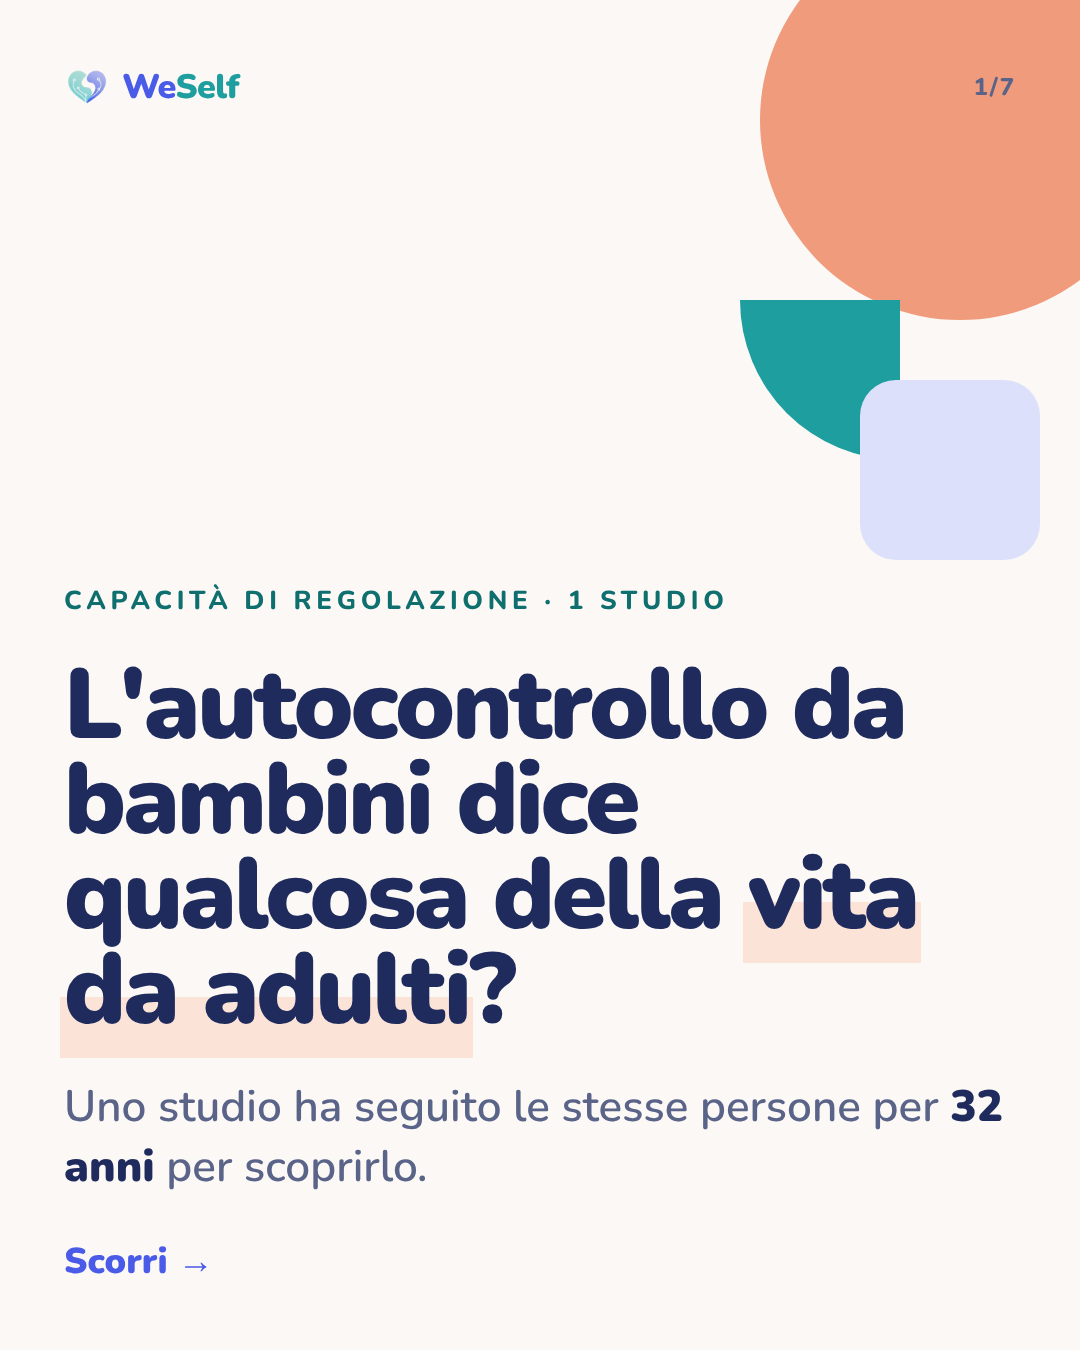
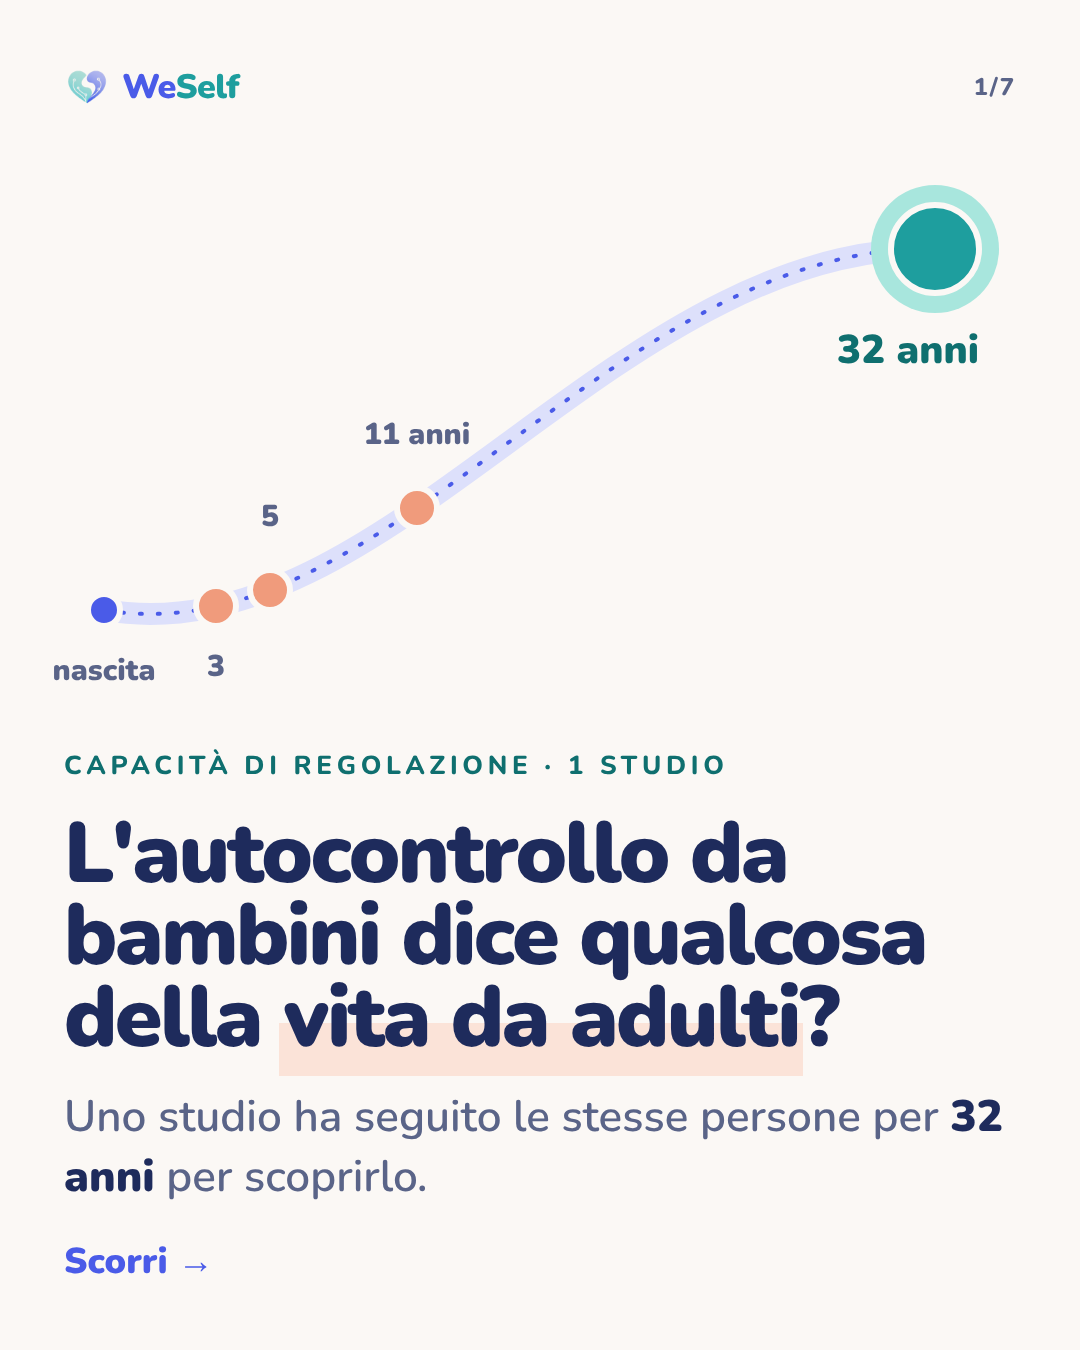
Carosello Dunedin: nuova copertina con il percorso dalla nascita ai 32 anni
Claude-Session: https://claude.ai/code/session_01KYQeP73Zvn8PeP6zhkL2Sc

Changed region(s): [[0.0306, 0.0, 1.0, 0.9022], [0.7333, 0.4978, 0.8556, 0.56], [0.5194, 0.4356, 0.6722, 0.4667]]

diff --git a/carosselli/dunedin/slides.html b/carosselli/dunedin/slides.html
@@ -73,16 +73,27 @@ svg.shape{position:absolute;z-index:1}
 .n.lo{background:var(--coral-soft);color:var(--coral-text)}.n.hi{background:var(--teal-soft);color:var(--teal-text)}
 .lab{display:flex;flex-direction:column;align-items:center;gap:4px;text-align:center;font-weight:800;font-size:21px;line-height:1.1;border-radius:16px;padding:14px 6px}.lab strong{font-weight:900;font-size:38px;letter-spacing:.04em}
 .lab.lo{background:var(--coral);color:var(--ink)}.lab.hi{background:var(--teal);color:#fff}
+.life{display:block;margin-top:30px;align-self:center;overflow:visible}
 </style></head><body><section class="slide" id="s1">
-  <svg class="shape" style="right:0;top:0" width="520" height="620" viewBox="0 0 520 620">
-    <circle class="s-warm" cx="400" cy="120" r="200"/>
-    <path class="s-self" d="M180 300 h160 v160 a160 160 0 0 1 -160 -160 z"/>
-    <rect class="s-tintwe" x="300" y="380" width="180" height="180" rx="36"/>
-  </svg>
   <div class="top"><div class="brand"><img src="weself-mark.png"><span><span class="we">We</span><span class="self">Self</span></span></div><div class="count">1/7</div></div>
-  <div style="margin-top:auto" class="stack">
+  <svg class="life" width="952" height="580" viewBox="0 0 952 580">
+    <path d="M40 470 C330 520 560 80 900 110" fill="none" stroke="var(--peri-soft)" stroke-width="22" stroke-linecap="round"/>
+    <path d="M40 470 C330 520 560 80 900 110" fill="none" stroke="var(--peri)" stroke-width="4" stroke-dasharray="2 16" stroke-linecap="round"/>
+    <circle cx="40" cy="470" r="16" fill="var(--peri)" stroke="var(--surface)" stroke-width="6"/>
+    <text x="40" y="540" text-anchor="middle" font-family="Nunito" font-weight="900" font-size="30" fill="var(--muted)">nascita</text>
+    <circle cx="152" cy="466" r="20" fill="var(--coral)" stroke="var(--surface)" stroke-width="6"/>
+    <text x="152" y="536" text-anchor="middle" font-family="Nunito" font-weight="900" font-size="30" fill="var(--muted)">3</text>
+    <circle cx="206" cy="450" r="20" fill="var(--coral)" stroke="var(--surface)" stroke-width="6"/>
+    <text x="206" y="386" text-anchor="middle" font-family="Nunito" font-weight="900" font-size="30" fill="var(--muted)">5</text>
+    <circle cx="353" cy="368" r="20" fill="var(--coral)" stroke="var(--surface)" stroke-width="6"/>
+    <text x="353" y="304" text-anchor="middle" font-family="Nunito" font-weight="900" font-size="30" fill="var(--muted)">11 anni</text>
+    <circle cx="871" cy="109" r="64" fill="var(--teal-soft)"/>
+    <circle cx="871" cy="109" r="44" fill="var(--teal)" stroke="var(--surface)" stroke-width="6"/>
+    <text x="915" y="223" text-anchor="end" font-family="Nunito" font-weight="900" font-size="40" fill="var(--teal-text)">32 anni</text>
+    </svg>
+  <div style="margin-top:auto;gap:30px" class="stack">
     <p class="kicker">Capacità di regolazione · 1 studio</p>
-    <h1 style="font-size:100px">L'autocontrollo da bambini dice qualcosa della <span class="hl">vita da adulti</span>?</h1>
+    <h1 style="font-size:86px">L'autocontrollo da bambini dice qualcosa della <span class="hl">vita da adulti</span>?</h1>
     <p class="body muted">Uno studio ha seguito le stesse persone per <b style="color:var(--ink)">32 anni</b> per scoprirlo.</p>
     <p style="font-weight:900;font-size:36px;color:var(--peri)">Scorri →</p>
   </div>

diff --git a/carosselli/dunedin/kit-pubblicazione-instagram.md b/carosselli/dunedin/kit-pubblicazione-instagram.md
@@ -45,7 +45,7 @@ Instagram non rende cliccabili i link nei commenti: il link serve a chi lo copia
 
 Per ogni immagine, prima di pubblicare: Impostazioni avanzate → Accessibilità → Scrivi testo alternativo.
 
-1. Copertina WeSelf: "L'autocontrollo da bambini dice qualcosa della vita da adulti? Uno studio ha seguito le stesse persone per 32 anni per scoprirlo."
+1. Copertina WeSelf: una linea curva che sale dalla nascita fino ai 32 anni, con tre punti arancioni a 3, 5 e 11 anni e un grande punto verde a 32 anni. Testo: "L'autocontrollo da bambini dice qualcosa della vita da adulti? Uno studio ha seguito le stesse persone per 32 anni per scoprirlo."
 2. Lo studio: 1.037 bambini nati nel 1972–73 a Dunedin, in Nuova Zelanda, seguiti dalla nascita fino ai 32 anni con controlli su salute, lavoro, soldi e vita sociale. Fonte: Moffitt e colleghi, PNAS 2011.
 3. Come hanno misurato l'autocontrollo: 5 comportamenti (aggressività impulsiva, iperattività, scarsa perseveranza, disattenzione, impulsività) valutati dai 5 agli 11 anni da genitori, insegnanti e bambini, più l'osservazione dei ricercatori a 3 e 5 anni. Nove misure in un unico punteggio.
 4. Cosa hanno trovato, a 32 anni su 100 persone con poco contro molto autocontrollo da bambine: più problemi di salute 27 contro 11; dipendenza da più sostanze 10 contro 3; reddito molto basso 32 contro 10; condanna penale 43 contro 13.
